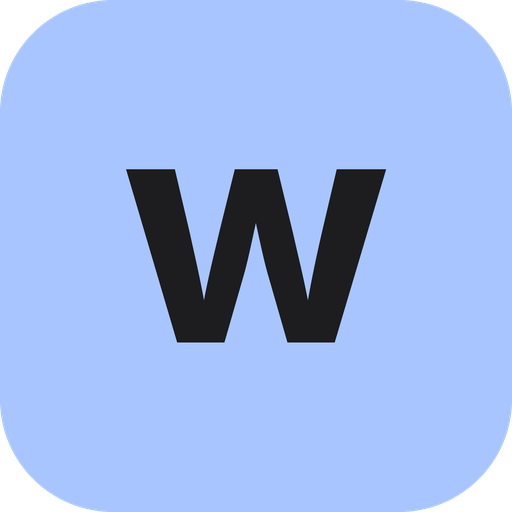
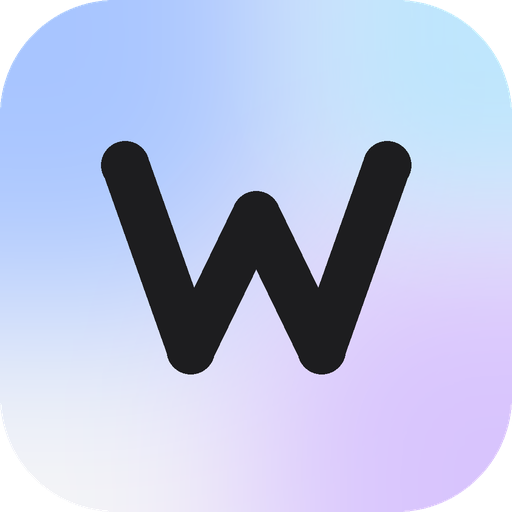
Icono de la app más gráfico: manchas pastel de la web y w de trazo redondeado
Claude-Session: https://claude.ai/code/session_01SmFUBwas2yWcbY2UUnLZf8

diff --git a/static/sw.js b/static/sw.js
@@ -2,7 +2,7 @@
    A propósito NO guarda páginas ni CSS/JS en caché: así cada cambio que subas
    (git pull + Reload) aparece al momento en la app, sin versiones viejas.
    Solo guarda la página "Sin conexión" para enseñarla si no hay internet. */
-const CACHE = "weblife-v1";
+const CACHE = "weblife-v2";   // súbelo si cambias los iconos
 const SIN_CONEXION = "/static/sin-conexion.html";
 
 self.addEventListener("install", function (e) {

diff --git a/herramientas/crear_iconos.py b/herramientas/crear_iconos.py
@@ -1,42 +1,86 @@
 """Crea los iconos de la app (PWA) en static/iconos/.
 Uso: python3 herramientas/crear_iconos.py  (necesita Pillow: pip3 install --user pillow)
-Cambia COLOR_FONDO / COLOR_LETRA / LETRA y vuelve a ejecutarlo si quieres otro icono."""
-import os
-from PIL import Image, ImageDraw, ImageFont
 
-COLOR_FONDO = "#A8C5FF"   # el azul pastel de la web
-COLOR_LETRA = "#1D1D1F"
-LETRA = "w"
-FUENTE = "/usr/share/fonts/opentype/inter/Inter-Bold.otf"   # si no existe, usa la de serie
+Hay tres diseños; cambia DISENO y vuelve a ejecutarlo:
+  "A": fondo claro con las manchas de color de la web y una "w" de trazo redondeado.
+  "B": tarjeta de cristal sobre un degradado pastel.
+  "C": fondo oscuro con la "w" en degradado pastel y un punto.
+"""
+import os
+from PIL import Image, ImageDraw, ImageFilter
+
+DISENO = "A"
 CARPETA = os.path.join(os.path.dirname(__file__), "..", "static", "iconos")
 
+S = 1024   # dibujamos grande y luego reducimos, para que los bordes queden suaves
+FONDO = (245, 245, 247)     # #F5F5F7, el fondo de la web
+TEXTO = (29, 29, 31)        # #1D1D1F
+AZUL = (168, 197, 255)      # #A8C5FF, el acento
+LILA = (209, 184, 255)
+CELESTE = (168, 224, 255)
+ROSA = (255, 184, 209)
 
-def icono(tamano, tamano_letra, redondeado):
-    escala = 4   # dibujamos grande y reducimos, para bordes suaves
-    t = tamano * escala
-    img = Image.new("RGBA", (t, t), (0, 0, 0, 0))
-    d = ImageDraw.Draw(img)
-    if redondeado:
-        d.rounded_rectangle((0, 0, t - 1, t - 1), radius=int(t * 0.22), fill=COLOR_FONDO)
-    else:
-        d.rectangle((0, 0, t, t), fill=COLOR_FONDO)
-    try:
-        fuente = ImageFont.truetype(FUENTE, int(t * tamano_letra))
-    except OSError:
-        fuente = ImageFont.load_default(int(t * tamano_letra))
-    caja = d.textbbox((0, 0), LETRA, font=fuente)
-    x = (t - (caja[2] - caja[0])) / 2 - caja[0]
-    y = (t - (caja[3] - caja[1])) / 2 - caja[1]
-    d.text((x, y), LETRA, font=fuente, fill=COLOR_LETRA)
-    return img.resize((tamano, tamano), Image.LANCZOS)
+
+def manchas(base, lista):
+    """Fondo con manchas de color difuminadas, como las de detrás de la web."""
+    capa = Image.new("RGB", (S, S), base)
+    for cx, cy, r, color, fuerza in lista:
+        m = Image.new("L", (S, S), 0)
+        ImageDraw.Draw(m).ellipse((cx - r, cy - r, cx + r, cy + r), fill=int(255 * fuerza))
+        m = m.filter(ImageFilter.GaussianBlur(r * 0.45))
+        capa = Image.composite(Image.new("RGB", (S, S), color), capa, m)
+    return capa
+
+
+def w_trazo(d, color, grosor, y0=330, y1=700, x0=250, x1=774, ymedio=430):
+    """La "w" como una sola línea con las puntas redondeadas."""
+    xs = [x0, x0 + (x1 - x0) * 0.25, (x0 + x1) / 2, x0 + (x1 - x0) * 0.75, x1]
+    puntos = [(xs[0], y0), (xs[1], y1), (xs[2], ymedio), (xs[3], y1), (xs[4], y0)]
+    d.line(puntos, fill=color, width=grosor, joint="curve")
+    for x, y in puntos:
+        d.ellipse((x - grosor / 2, y - grosor / 2, x + grosor / 2, y + grosor / 2), fill=color)
+
+
+def diseno_a():
+    img = manchas(FONDO, [(220, 230, 420, AZUL, 1), (860, 820, 380, LILA, 0.8), (900, 150, 260, CELESTE, 0.7)])
+    w_trazo(ImageDraw.Draw(img), TEXTO, 96)
+    return img
+
+
+def diseno_b():
+    img = manchas(AZUL, [(150, 150, 500, CELESTE, 1), (950, 950, 520, LILA, 1), (900, 200, 300, ROSA, 0.5)])
+    cristal = Image.new("RGBA", (S, S), (0, 0, 0, 0))
+    ImageDraw.Draw(cristal).rounded_rectangle((170, 170, 854, 854), radius=170, fill=(255, 255, 255, 120),
+                                              outline=(255, 255, 255, 200), width=8)
+    img = Image.alpha_composite(img.convert("RGBA"), cristal).convert("RGB")
+    w_trazo(ImageDraw.Draw(img), TEXTO, 80, y0=380, y1=650, x0=300, x1=724, ymedio=460)
+    return img
+
+
+def diseno_c():
+    img = Image.new("RGB", (S, S), TEXTO)
+    mascara = Image.new("L", (S, S), 0)
+    w_trazo(ImageDraw.Draw(mascara), 255, 104)
+    img.paste(manchas(AZUL, [(250, 300, 380, CELESTE, 1), (800, 750, 380, LILA, 1)]), (0, 0), mascara)
+    ImageDraw.Draw(img).ellipse((S / 2 - 34, 196, S / 2 + 34, 264), fill=AZUL)
+    return img
+
+
+def guardar(img, nombre, tamano, redondeado):
+    if redondeado:   # esquinas redondeadas (Android y pestañas); iPhone las redondea solo
+        m = Image.new("L", (S, S), 0)
+        ImageDraw.Draw(m).rounded_rectangle((0, 0, S - 1, S - 1), radius=int(S * 0.225), fill=255)
+        con_esquinas = Image.new("RGBA", (S, S), (0, 0, 0, 0))
+        con_esquinas.paste(img, (0, 0), m)
+        img = con_esquinas
+    img.resize((tamano, tamano), Image.LANCZOS).save(os.path.join(CARPETA, nombre))
 
 
 os.makedirs(CARPETA, exist_ok=True)
-icono(192, 0.62, True).save(os.path.join(CARPETA, "icono-192.png"))
-icono(512, 0.62, True).save(os.path.join(CARPETA, "icono-512.png"))
-# "maskable": Android lo recorta en círculo o gota, así que la letra va más pequeña y el fondo lleno
-icono(512, 0.45, False).save(os.path.join(CARPETA, "icono-maskable-512.png"))
-# iPhone: fondo lleno (iOS redondea las esquinas solo)
-icono(180, 0.62, False).convert("RGB").save(os.path.join(CARPETA, "apple-touch-icon.png"))
-icono(32, 0.7, True).save(os.path.join(CARPETA, "favicon-32.png"))
-print("Iconos creados en", os.path.abspath(CARPETA))
+icono = {"A": diseno_a, "B": diseno_b, "C": diseno_c}[DISENO]()
+guardar(icono, "icono-192.png", 192, True)
+guardar(icono, "icono-512.png", 512, True)
+guardar(icono, "icono-maskable-512.png", 512, False)   # Android lo recorta él (la "w" cabe en la zona segura)
+guardar(icono, "apple-touch-icon.png", 180, False)
+guardar(icono, "favicon-32.png", 32, True)
+print("Iconos (diseño", DISENO + ") creados en", os.path.abspath(CARPETA))
